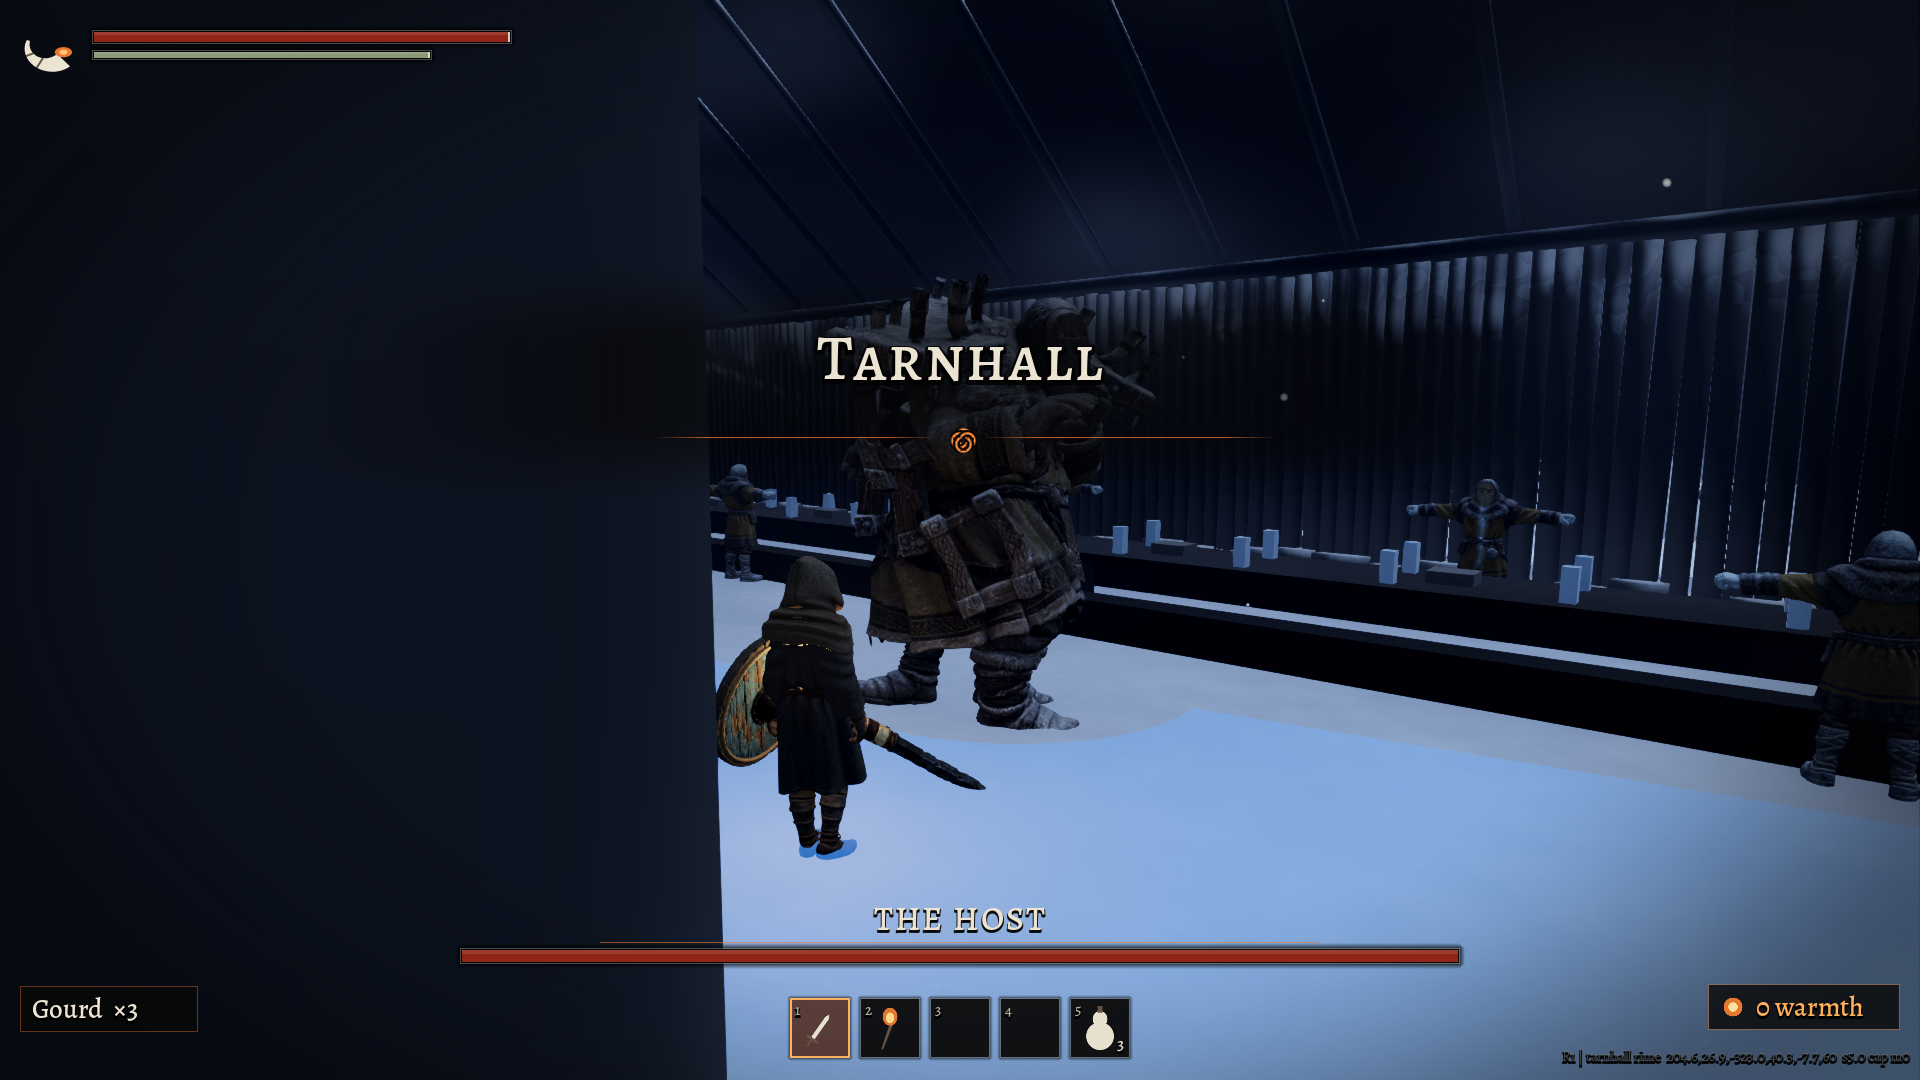
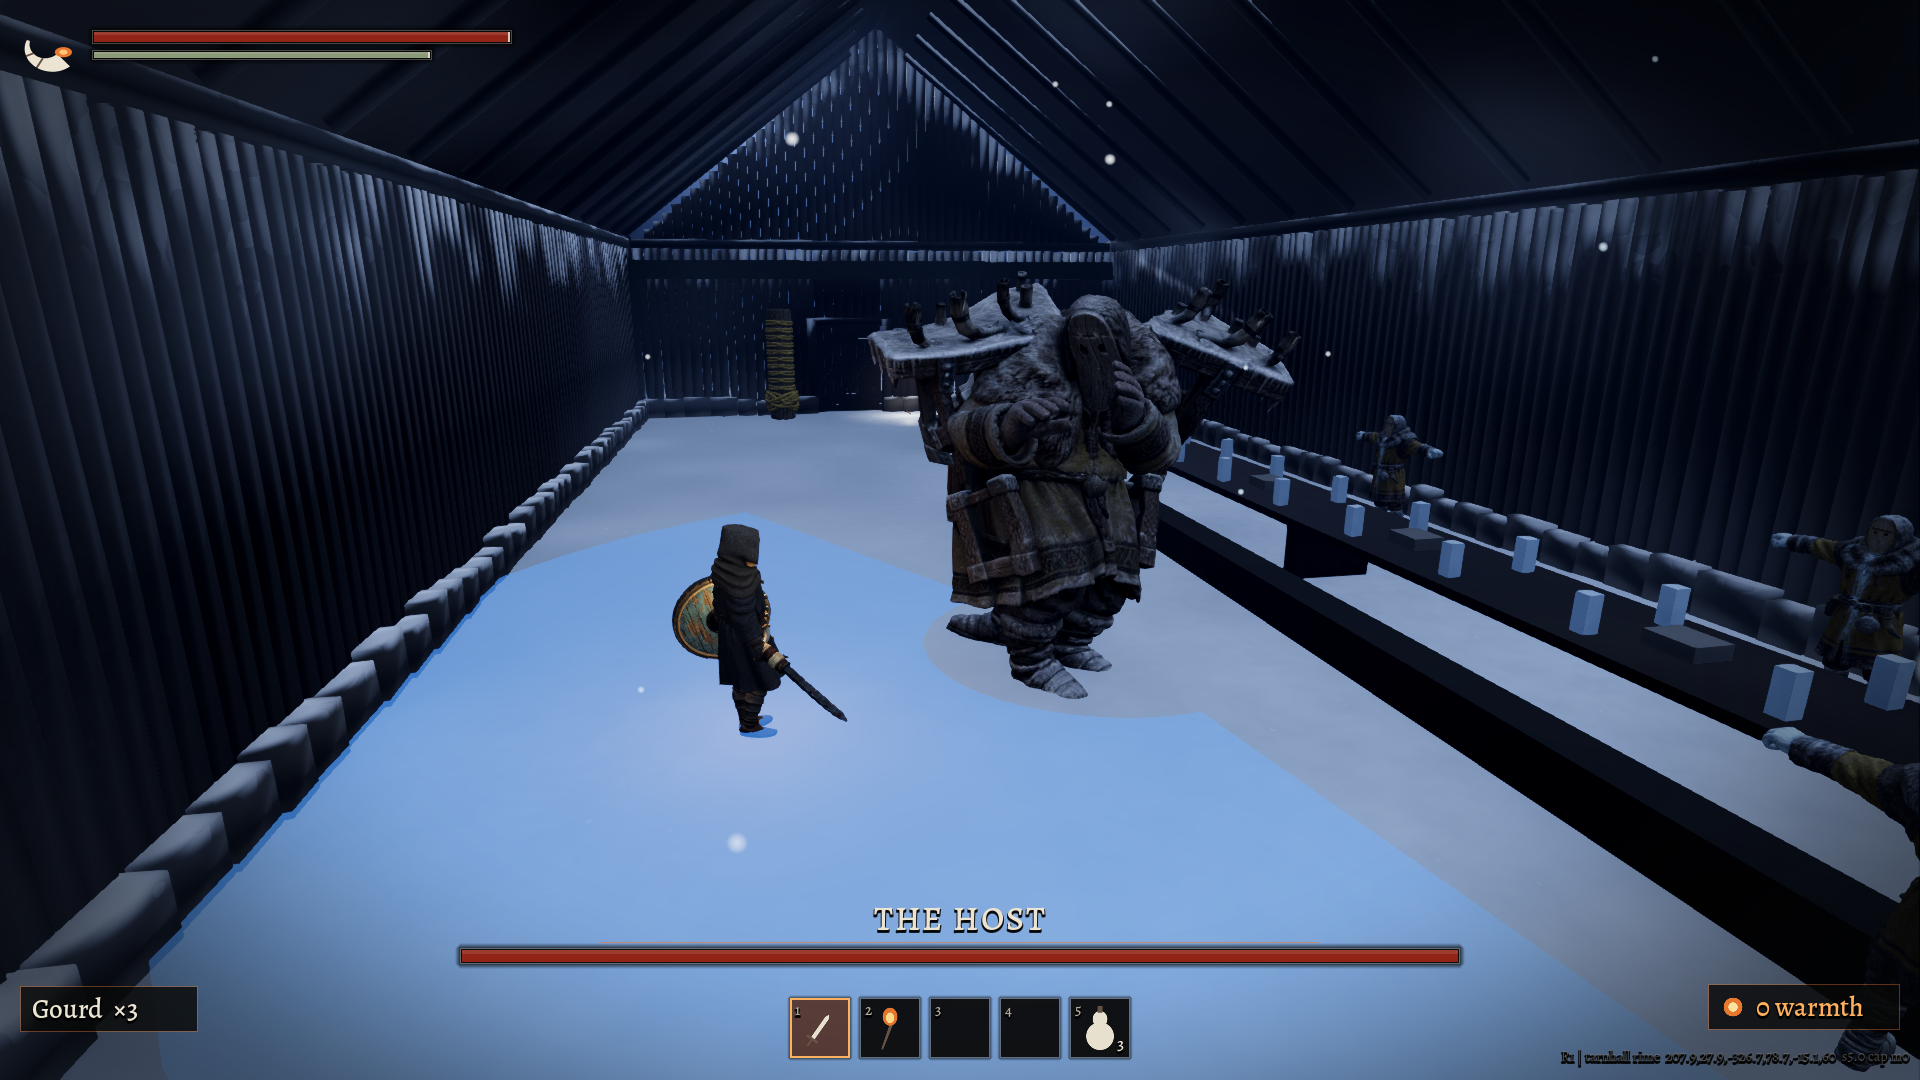
Tarnhall: seated guests replace the A-pose stills; shot fixes
The RIME feast-guest stills (A-pose landmarks) are now spawners of
feast_guest_seated in the sit_feast pose: they do not stand for the
Bearer passing; the Host raises them out of their places, or a blow
does; they are gone from the benches once he is released
(absent_flag; spawners now honour require/absent flags like the other
lists). The Host faces across the table to pour. Frost pools read
glassy blue on RIME snow; the Host's cup is bigger. Shot staging:
the doors with the Bearer out of frame, the second sitting framed on
the benches, the cupbearer and champion on open snow, the champion
from its shield side. Suite: 109 checks.

Claude-Session: https://claude.ai/code/session_01F3vrUNPtFufos1qRX6SLeD

diff --git a/tools/art/procedural/small_props.py b/tools/art/procedural/small_props.py
@@ -85,13 +85,13 @@ scene("ivo_mitten", res, nodes)
 import math
 res = [mat("horn", 0.62, 0.52, 0.36, 0.5), mat("tip", 0.25, 0.2, 0.15, 0.5), mat("birch", 0.78, 0.7, 0.55),
        mat("tin", 0.7, 0.72, 0.74, 0.35), mat("dust", 0.42, 0.38, 0.33, 1.0),
-       ("seg", "CylinderMesh", {"top_radius": 0.05, "bottom_radius": 0.04, "height": 0.07, "radial_segments": 12,
+       ("seg", "CylinderMesh", {"top_radius": 0.085, "bottom_radius": 0.07, "height": 0.08, "radial_segments": 12,
                                 "material": 'SubResource("horn")'}),
-       ("foot", "CylinderMesh", {"top_radius": 0.035, "bottom_radius": 0.06, "height": 0.05, "radial_segments": 12,
+       ("foot", "CylinderMesh", {"top_radius": 0.05, "bottom_radius": 0.095, "height": 0.06, "radial_segments": 12,
                                  "material": 'SubResource("birch")'}),
-       ("band", "CylinderMesh", {"top_radius": 0.058, "bottom_radius": 0.058, "height": 0.022, "radial_segments": 14,
+       ("band", "CylinderMesh", {"top_radius": 0.092, "bottom_radius": 0.092, "height": 0.03, "radial_segments": 14,
                                  "material": 'SubResource("tin")'}),
-       ("inside", "CylinderMesh", {"top_radius": 0.05, "bottom_radius": 0.05, "height": 0.004, "radial_segments": 14,
+       ("inside", "CylinderMesh", {"top_radius": 0.08, "bottom_radius": 0.08, "height": 0.004, "radial_segments": 14,
                                    "material": 'SubResource("dust")'})]
 nodes = [("HostCup", "Node3D", None, {}),
          ("Foot", "MeshInstance3D", ".", {"transform": xf(y=0.025), "mesh": 'SubResource("foot")'})]
@@ -100,9 +100,9 @@ for i in range(5):
     k = i / 4.0
     sc = 0.55 + 0.45 * k
     x = -0.05 * math.sin(k * 1.4)
-    nodes.append(("H%d" % i, "MeshInstance3D", ".", {"transform": xf(sc, 1, sc, x=x, y=0.08 + i * 0.062), "mesh": 'SubResource("seg")'}))
-nodes.append(("Band", "MeshInstance3D", ".", {"transform": xf(y=0.36), "mesh": 'SubResource("band")'}))
-nodes.append(("Dust", "MeshInstance3D", ".", {"transform": xf(y=0.355), "mesh": 'SubResource("inside")'}))
+    nodes.append(("H%d" % i, "MeshInstance3D", ".", {"transform": xf(sc, 1, sc, x=x, y=0.09 + i * 0.07), "mesh": 'SubResource("seg")'}))
+nodes.append(("Band", "MeshInstance3D", ".", {"transform": xf(y=0.4), "mesh": 'SubResource("band")'}))
+nodes.append(("Dust", "MeshInstance3D", ".", {"transform": xf(y=0.395), "mesh": 'SubResource("inside")'}))
 scene("host_cup", res, nodes, upright=True)
 
 # the guest-tally: a long plaited cord, yellow and oat, coiled; knots along it

diff --git a/tools/gen_tarnhall.py b/tools/gen_tarnhall.py
@@ -123,6 +123,7 @@ while x < TX1 - 0.6:
                       "mat": "M_drift", "tag": "base", "collide": False})
     k += 1
     x += 1.6
+SEATS = []
 # the guests. THAW: the benches packed. RIME: the same guests, white, in
 # their seats (the Tripo feast-guest as a still); some stand when you come in.
 for i in range(8):
@@ -132,8 +133,10 @@ for i in range(8):
         if (i + (side > 0)) % 2 == 0:
             PROPS.append({"kit": "mannequin_thaw", "at": [r2(gx), FY, r2(gz)], "rot": 0 if side > 0 else 180, "tag": "thaw", "collide": False})
         elif i % 3 != 1:
-            LANDMARKS.append({"scene": "res://assets/models/enemies/feast_guest.glb", "at": [r2(gx), FY, r2(gz)],
-                              "rot": 180 if side > 0 else 0, "tag": "rime"})
+            # seated in their places (sit_feast); the Host raises them (TARNHALL.md 6)
+            SEATS.append({"enemy": "feast_guest_seated", "id": "seat_%d_%s" % (i, "s" if side > 0 else "n"),
+                          "at": [r2(gx), FY + 0.1, r2(gz)], "face": 0 if side > 0 else 180, "pose": "sit_feast",
+                          "absent_flag": "ks_host_released"})
 # the hall's light: the fire along the middle of the floor (THAW), dead in RIME
 PROPS.append({"kit": "fish_kettle", "at": [r2(HALL_C[0] - 4), FY, r2(HALL_C[1] + 2.4)], "rot": 0, "tag": "thaw", "glow": [2.0, 2.4, 14.0]})
 PROPS.append({"kit": "fish_kettle", "at": [r2(HALL_C[0] + 8), FY, r2(HALL_C[1] + 2.4)], "rot": 40, "tag": "thaw", "glow": [2.0, 2.0, 12.0]})
@@ -271,7 +274,7 @@ spawners = [
     # the Host at the long table, filling the horns (TARNHALL.md 4, 6)
     {"enemy": "host", "stand_in": "netmender", "id": "host", "at": [r2(HALL_C[0] + 2.0), FY + 0.1, r2(TABLE_Z + 3.0)], "face": 0,
      "dead_once": True, "frost_veil_id": "long_table_veil"},
-]
+] + SEATS
 VEIL = [r2(BYRE_X0 + 1.4), FY, DOOR_Z]
 pickups = [
     {"id": "byre_cache", "at": [r2(BYRE_C[0] + 4.6), FY, r2(BYRE_C[1] - 3.2)], "item": "bog_iron", "count": 2, "tag": "rime",
